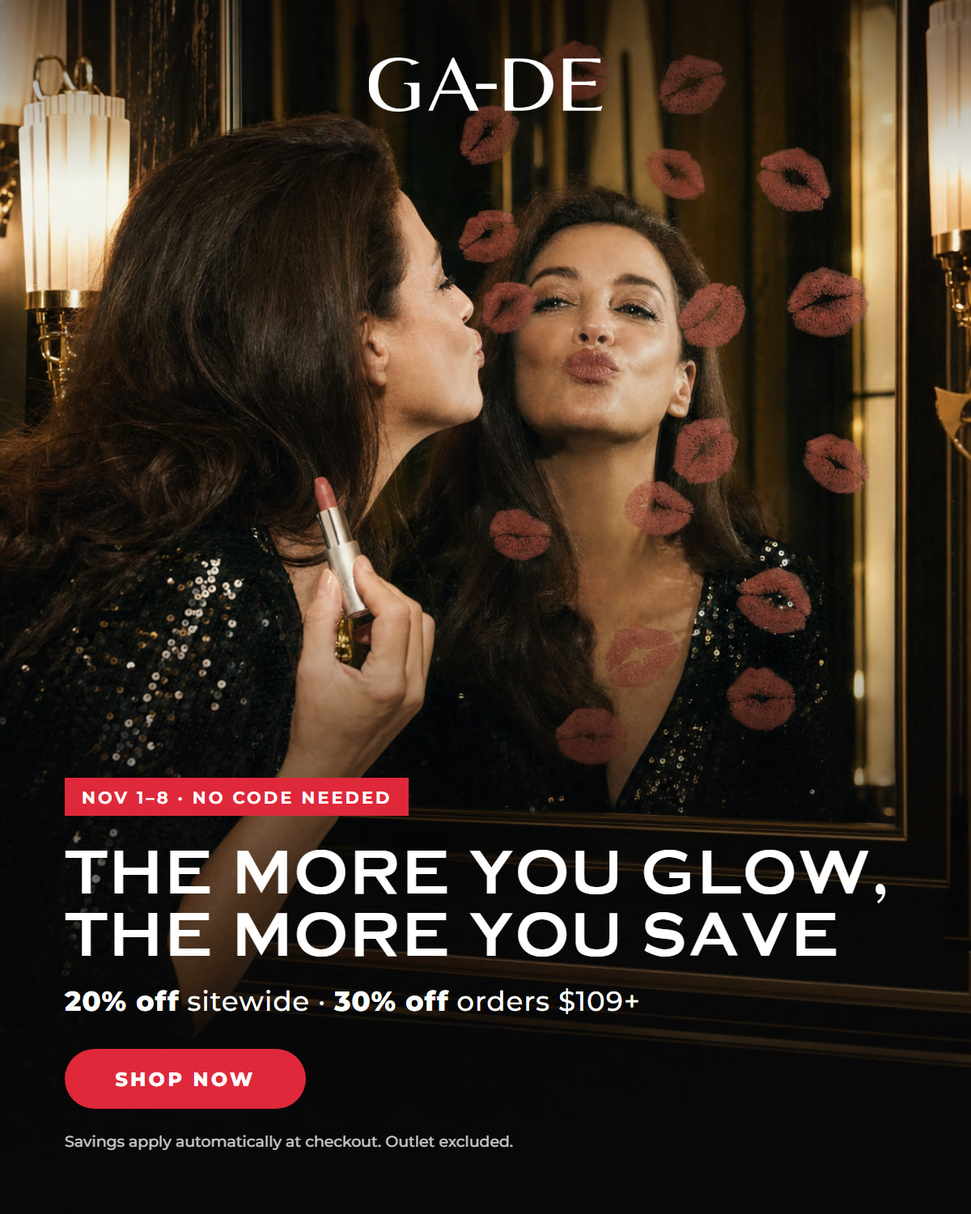
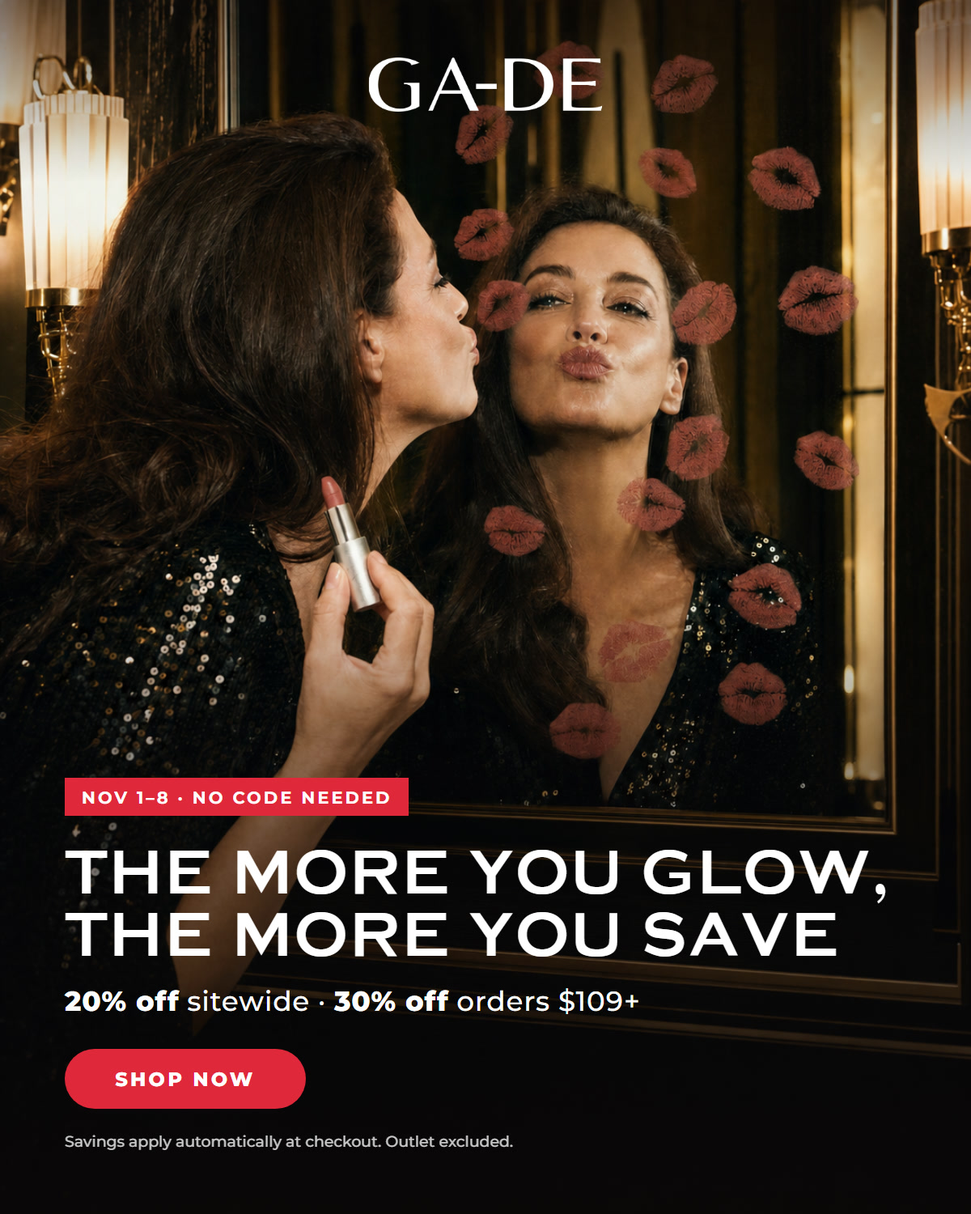
Round 5: hand re-check fixes (P feed, Y), 6 product-only still lifes ST1-ST6

diff --git a/index.html b/index.html
@@ -4,8 +4,8 @@
 <div class="box"><b>מה השתנה בסבב הזה:</b><br>
 • בכל העיצובים יש רק את 5 הכותרות שאושרו: The more you glow, the more you save · Go big, save bigger · Stock up, glow up · Fill the bag, save up to 30% · Treat yourself, save more.<br>
 • השפתון בכל הסצנות נבנה מצילום המוצר המקורי (SELFIE SOFT MATTE): גוף כסוף מוברש עם כיתוב Ga-de, שרוול כרום ופקק נפרד. הקצה המשופע פונה לשפה.<br>
-• בדקנו בכל הפורמטים את הידיים, האחיזה, גודל המוצרים ומספר הגוונים.<br>
+• בדקנו שוב, בתקריב, כל יד וכל אחיזה בכל הפורמטים, וגם את גודל המוצרים ומספר הגוונים (תוקנו P פיד ו-Y).<br>
 • שולבו דוגמניות צעירות יותר (T2, V2, OS, AAS), ושימוש טבעי במוצרים.<br>
-• נוספו 3 כיווני טיפוח עם מוצרים אמיתיים שנמצאים במלאי באתר.</div>
-<nav style="margin-top:12px"><a href="#P">P</a><a href="#Q">Q</a><a href="#R">R</a><a href="#AD">AD</a><a href="#T">T</a><a href="#T2">T2</a><a href="#V2">V2</a><a href="#BS">BS</a><a href="#OS">OS</a><a href="#AAS">AAS</a><a href="#Y">Y</a><a href="#Z">Z</a><a href="#AA">AA</a> · <a href="round1.html">הסבב הקודם (כל 33 הכיוונים)</a></nav>
-<h2 class="sec">כיוונים שאושרו · תוקנו לפי ההערות</h2><h3 id="P">P · מראה ארט-דקו · נשיקות</h3><p class="note">סטורי: השפתון הוחלף בשפתון SELFIE SOFT MATTE המדויק, בלי הפקק המחורץ שהיה מחובר לתחתית. כותרת: The more you glow, the more you save</p><div class="row"><figure><a href="img/r4/P_fe.jpg?r4" target="_blank"><img loading="lazy" src="img/r4/P_fe.jpg?r4"></a><figcaption>פיד 4:5</figcaption></figure><figure><a href="img/r4/P_st.jpg?r4" target="_blank"><img loading="lazy" src="img/r4/P_st.jpg?r4"></a><figcaption>סטורי 9:16</figcaption></figure><figure><a href="img/r4/P_em.jpg?r4" target="_blank"><img loading="lazy" src="img/r4/P_em.jpg?r4"></a><figcaption>קלאביו · באנר ראשי</figcaption></figure></div><h3 id="Q">Q · לימוזינה · שפתון + IDYLLIC</h3><p class="note">פיד וסטורי: השפתון הוחלף בשפתון המדויק, והקצה המשופע נוגע בשפה התחתונה. סטורי: יד שמאל צוירה מחדש (5 אצבעות, אחיזה טבעית בקומפקט בגודל כף יד)</p><div class="row"><figure><a href="img/r4/Q_fe.jpg?r4" target="_blank"><img loading="lazy" src="img/r4/Q_fe.jpg?r4"></a><figcaption>פיד 4:5</figcaption></figure><figure><a href="img/r4/Q_st.jpg?r4" target="_blank"><img loading="lazy" src="img/r4/Q_st.jpg?r4"></a><figcaption>סטורי 9:16</figcaption></figure><figure><a href="img/r4/Q_em.jpg?r4" target="_blank"><img loading="lazy" src="img/r4/Q_em.jpg?r4"></a><figcaption>קלאביו · באנר ראשי</figcaption></figure></div><h3 id="R">R · תקריב על רקע כתום</h3><p class="note">בכל הגרסאות: המוצר הוחלף בשפתון SELFIE SOFT MATTE המדויק (גוף כסוף מוברש, כיתוב Ga-de, שרוול כרום, פקק לא בתמונה). במקום לנשוך את השפתון, הדוגמנית מורחת אותו בכיוון הנכון</p><div class="row"><figure><a href="img/r4/R_fe.jpg?r4" target="_blank"><img loading="lazy" src="img/r4/R_fe.jpg?r4"></a><figcaption>פיד 4:5</figcaption></figure><figure><a href="img/r4/R_st.jpg?r4" target="_blank"><img loading="lazy" src="img/r4/R_st.jpg?r4"></a><figcaption>סטורי 9:16</figcaption></figure><figure><a href="img/r4/R_em.jpg?r4" target="_blank"><img loading="lazy" src="img/r4/R_em.jpg?r4"></a><figcaption>קלאביו · באנר ראשי</figcaption></figure></div><h3 id="AD">AD · נשיקה על הלחי</h3><p class="note">ממשיכים עם הכיוון כמו שהוא</p><div class="row"><figure><a href="img/r4/AD_fe.jpg?r4" target="_blank"><img loading="lazy" src="img/r4/AD_fe.jpg?r4"></a><figcaption>פיד 4:5</figcaption></figure><figure><a href="img/r4/AD_st.jpg?r4" target="_blank"><img loading="lazy" src="img/r4/AD_st.jpg?r4"></a><figcaption>סטורי 9:16</figcaption></figure><figure><a href="img/r4/AD_em.jpg?r4" target="_blank"><img loading="lazy" src="img/r4/AD_em.jpg?r4"></a><figcaption>קלאביו · באנר ראשי</figcaption></figure></div><h2 class="sec">כיוונים בכפוף להתאמות</h2><h3 id="T">T · ביקרית · המקורית</h3><p class="note">נשארת להשוואה. הכותרת הוחלפה לכותרת מהרשימה המאושרת</p><div class="row"><figure><a href="img/r4/T_fe.jpg?r4" target="_blank"><img loading="lazy" src="img/r4/T_fe.jpg?r4"></a><figcaption>פיד 4:5</figcaption></figure><figure><a href="img/r4/T_st.jpg?r4" target="_blank"><img loading="lazy" src="img/r4/T_st.jpg?r4"></a><figcaption>סטורי 9:16</figcaption></figure><figure><a href="img/r4/T_em.jpg?r4" target="_blank"><img loading="lazy" src="img/r4/T_em.jpg?r4"></a><figcaption>קלאביו · באנר ראשי</figcaption></figure></div><h3 id="T2">T2 · ביקרית · חלופה צעירה (~27)</h3><p class="note">אותה סצנה עם דוגמנית צעירה יותר, ושפתון מדויק שמונח בכיוון הנכון</p><div class="row"><figure><a href="img/r4/T2_fe.jpg?r4" target="_blank"><img loading="lazy" src="img/r4/T2_fe.jpg?r4"></a><figcaption>פיד 4:5</figcaption></figure><figure><a href="img/r4/T2_st.jpg?r4" target="_blank"><img loading="lazy" src="img/r4/T2_st.jpg?r4"></a><figcaption>סטורי 9:16</figcaption></figure><figure><a href="img/r4/T2_em.jpg?r4" target="_blank"><img loading="lazy" src="img/r4/T2_em.jpg?r4"></a><figcaption>קלאביו · באנר ראשי</figcaption></figure></div><h3 id="V2">V2 · עגלת קניות · פרופורציות מתוקנות + טיפוח</h3><p class="note">העגלה בגודל רגיל והמוצרים בגודלם האמיתי (שפתון באורך אצבע, קומפקט בגודל כף יד). נוספו מוצרי טיפוח: Gold Premium ו-Luminity. דוגמנית צעירה יותר</p><div class="row"><figure><a href="img/r4/V2_fe.jpg?r4" target="_blank"><img loading="lazy" src="img/r4/V2_fe.jpg?r4"></a><figcaption>פיד 4:5</figcaption></figure><figure><a href="img/r4/V2_st.jpg?r4" target="_blank"><img loading="lazy" src="img/r4/V2_st.jpg?r4"></a><figcaption>סטורי 9:16</figcaption></figure><figure><a href="img/r4/V2_em.jpg?r4" target="_blank"><img loading="lazy" src="img/r4/V2_em.jpg?r4"></a><figcaption>קלאביו · באנר ראשי</figcaption></figure></div><h2 class="sec">טיפוח · 3 כיוונים חדשים</h2><h3 id="BS">BS · B לטיפוח · סאטן שמפניה</h3><p class="note">Gold Premium Double Serum, קרם Gold Premium פתוח עם מרקם, סרום וקרם Luminity. כל המוצרים במלאי באתר</p><div class="row"><figure><a href="img/r4/BS_fe.jpg?r4" target="_blank"><img loading="lazy" src="img/r4/BS_fe.jpg?r4"></a><figcaption>פיד 4:5</figcaption></figure><figure><a href="img/r4/BS_st.jpg?r4" target="_blank"><img loading="lazy" src="img/r4/BS_st.jpg?r4"></a><figcaption>סטורי 9:16</figcaption></figure><figure><a href="img/r4/BS_em.jpg?r4" target="_blank"><img loading="lazy" src="img/r4/BS_em.jpg?r4"></a><figcaption>קלאביו · באנר ראשי</figcaption></figure></div><h3 id="OS">OS · O לטיפוח · רגע באמבטיה</h3><p class="note">דוגמנית בת ~30 עם כמעט בלי איפור מורחת ג׳ל-קרם Aqua Jolt על עצם הלחי. הצנצנת הפתוחה ביד, הסרום על המגש</p><div class="row"><figure><a href="img/r4/OS_fe.jpg?r4" target="_blank"><img loading="lazy" src="img/r4/OS_fe.jpg?r4"></a><figcaption>פיד 4:5</figcaption></figure><figure><a href="img/r4/OS_st.jpg?r4" target="_blank"><img loading="lazy" src="img/r4/OS_st.jpg?r4"></a><figcaption>סטורי 9:16</figcaption></figure><figure><a href="img/r4/OS_em.jpg?r4" target="_blank"><img loading="lazy" src="img/r4/OS_em.jpg?r4"></a><figcaption>קלאביו · באנר ראשי</figcaption></figure></div><h3 id="AAS">AAS · AA לטיפוח · תקריב חצי פנים</h3><p class="note">איפור מינימלי, עור טבעי עם ברק של סרום. ביד סרום Luminity</p><div class="row"><figure><a href="img/r4/AAS_fe.jpg?r4" target="_blank"><img loading="lazy" src="img/r4/AAS_fe.jpg?r4"></a><figcaption>פיד 4:5</figcaption></figure><figure><a href="img/r4/AAS_st.jpg?r4" target="_blank"><img loading="lazy" src="img/r4/AAS_st.jpg?r4"></a><figcaption>סטורי 9:16</figcaption></figure><figure><a href="img/r4/AAS_em.jpg?r4" target="_blank"><img loading="lazy" src="img/r4/AAS_em.jpg?r4"></a><figcaption>קלאביו · באנר ראשי</figcaption></figure></div><h2 class="sec">אפשרויות נוספות</h2><h3 id="Y">Y · אייליינר גרפי</h3><p class="note">ללא שינוי</p><div class="row"><figure><a href="img/r4/Y_fe.jpg?r4" target="_blank"><img loading="lazy" src="img/r4/Y_fe.jpg?r4"></a><figcaption>פיד 4:5</figcaption></figure><figure><a href="img/r4/Y_st.jpg?r4" target="_blank"><img loading="lazy" src="img/r4/Y_st.jpg?r4"></a><figcaption>סטורי 9:16</figcaption></figure><figure><a href="img/r4/Y_em.jpg?r4" target="_blank"><img loading="lazy" src="img/r4/Y_em.jpg?r4"></a><figcaption>קלאביו · באנר ראשי</figcaption></figure></div><h3 id="Z">Z · שיער כסוף · שפתון אדום</h3><p class="note">ללא שינוי</p><div class="row"><figure><a href="img/r4/Z_fe.jpg?r4" target="_blank"><img loading="lazy" src="img/r4/Z_fe.jpg?r4"></a><figcaption>פיד 4:5</figcaption></figure><figure><a href="img/r4/Z_st.jpg?r4" target="_blank"><img loading="lazy" src="img/r4/Z_st.jpg?r4"></a><figcaption>סטורי 9:16</figcaption></figure><figure><a href="img/r4/Z_em.jpg?r4" target="_blank"><img loading="lazy" src="img/r4/Z_em.jpg?r4"></a><figcaption>קלאביו · באנר ראשי</figcaption></figure></div><h3 id="AA">AA · Glow FX · הייליטר</h3><p class="note">האחיזה בקומפקט תוקנה: יד אחת עם 5 אצבעות. הכותרת הוחלפה לכותרת מהרשימה המאושרת</p><div class="row"><figure><a href="img/r4/AA_fe.jpg?r4" target="_blank"><img loading="lazy" src="img/r4/AA_fe.jpg?r4"></a><figcaption>פיד 4:5</figcaption></figure><figure><a href="img/r4/AA_st.jpg?r4" target="_blank"><img loading="lazy" src="img/r4/AA_st.jpg?r4"></a><figcaption>סטורי 9:16</figcaption></figure><figure><a href="img/r4/AA_em.jpg?r4" target="_blank"><img loading="lazy" src="img/r4/AA_em.jpg?r4"></a><figcaption>קלאביו · באנר ראשי</figcaption></figure></div></html>
+• נוספו 3 כיווני טיפוח ו-6 כיווני מוצרים בלבד (ST1–ST6), כולם עם מוצרים אמיתיים שנמצאים במלאי באתר.</div>
+<nav style="margin-top:12px"><a href="#P">P</a><a href="#Q">Q</a><a href="#R">R</a><a href="#AD">AD</a><a href="#T">T</a><a href="#T2">T2</a><a href="#V2">V2</a><a href="#BS">BS</a><a href="#OS">OS</a><a href="#AAS">AAS</a><a href="#ST1">ST1</a><a href="#ST2">ST2</a><a href="#ST3">ST3</a><a href="#ST4">ST4</a><a href="#ST5">ST5</a><a href="#ST6">ST6</a><a href="#Y">Y</a><a href="#Z">Z</a><a href="#AA">AA</a> · <a href="round1.html">הסבב הקודם (כל 33 הכיוונים)</a></nav>
+<h2 class="sec">כיוונים שאושרו · תוקנו לפי ההערות</h2><h3 id="P">P · מראה ארט-דקו · נשיקות</h3><p class="note">סטורי: השפתון הוחלף בשפתון SELFIE SOFT MATTE המדויק, בלי הפקק המחורץ שהיה מחובר לתחתית. פיד: הוסר חפץ זהב שבלט מתחת לשפתון ביד. כותרת: The more you glow, the more you save</p><div class="row"><figure><a href="img/r4/P_fe.jpg?r5" target="_blank"><img loading="lazy" src="img/r4/P_fe.jpg?r5"></a><figcaption>פיד 4:5</figcaption></figure><figure><a href="img/r4/P_st.jpg?r5" target="_blank"><img loading="lazy" src="img/r4/P_st.jpg?r5"></a><figcaption>סטורי 9:16</figcaption></figure><figure><a href="img/r4/P_em.jpg?r5" target="_blank"><img loading="lazy" src="img/r4/P_em.jpg?r5"></a><figcaption>קלאביו · באנר ראשי</figcaption></figure></div><h3 id="Q">Q · לימוזינה · שפתון + IDYLLIC</h3><p class="note">פיד וסטורי: השפתון הוחלף בשפתון המדויק, והקצה המשופע נוגע בשפה התחתונה. סטורי: יד שמאל צוירה מחדש (5 אצבעות, אחיזה טבעית בקומפקט בגודל כף יד)</p><div class="row"><figure><a href="img/r4/Q_fe.jpg?r5" target="_blank"><img loading="lazy" src="img/r4/Q_fe.jpg?r5"></a><figcaption>פיד 4:5</figcaption></figure><figure><a href="img/r4/Q_st.jpg?r5" target="_blank"><img loading="lazy" src="img/r4/Q_st.jpg?r5"></a><figcaption>סטורי 9:16</figcaption></figure><figure><a href="img/r4/Q_em.jpg?r5" target="_blank"><img loading="lazy" src="img/r4/Q_em.jpg?r5"></a><figcaption>קלאביו · באנר ראשי</figcaption></figure></div><h3 id="R">R · תקריב על רקע כתום</h3><p class="note">בכל הגרסאות: המוצר הוחלף בשפתון SELFIE SOFT MATTE המדויק (גוף כסוף מוברש, כיתוב Ga-de, שרוול כרום, פקק לא בתמונה). במקום לנשוך את השפתון, הדוגמנית מורחת אותו בכיוון הנכון</p><div class="row"><figure><a href="img/r4/R_fe.jpg?r5" target="_blank"><img loading="lazy" src="img/r4/R_fe.jpg?r5"></a><figcaption>פיד 4:5</figcaption></figure><figure><a href="img/r4/R_st.jpg?r5" target="_blank"><img loading="lazy" src="img/r4/R_st.jpg?r5"></a><figcaption>סטורי 9:16</figcaption></figure><figure><a href="img/r4/R_em.jpg?r5" target="_blank"><img loading="lazy" src="img/r4/R_em.jpg?r5"></a><figcaption>קלאביו · באנר ראשי</figcaption></figure></div><h3 id="AD">AD · נשיקה על הלחי</h3><p class="note">ממשיכים עם הכיוון כמו שהוא</p><div class="row"><figure><a href="img/r4/AD_fe.jpg?r5" target="_blank"><img loading="lazy" src="img/r4/AD_fe.jpg?r5"></a><figcaption>פיד 4:5</figcaption></figure><figure><a href="img/r4/AD_st.jpg?r5" target="_blank"><img loading="lazy" src="img/r4/AD_st.jpg?r5"></a><figcaption>סטורי 9:16</figcaption></figure><figure><a href="img/r4/AD_em.jpg?r5" target="_blank"><img loading="lazy" src="img/r4/AD_em.jpg?r5"></a><figcaption>קלאביו · באנר ראשי</figcaption></figure></div><h2 class="sec">כיוונים בכפוף להתאמות</h2><h3 id="T">T · ביקרית · המקורית</h3><p class="note">נשארת להשוואה. הכותרת הוחלפה לכותרת מהרשימה המאושרת</p><div class="row"><figure><a href="img/r4/T_fe.jpg?r5" target="_blank"><img loading="lazy" src="img/r4/T_fe.jpg?r5"></a><figcaption>פיד 4:5</figcaption></figure><figure><a href="img/r4/T_st.jpg?r5" target="_blank"><img loading="lazy" src="img/r4/T_st.jpg?r5"></a><figcaption>סטורי 9:16</figcaption></figure><figure><a href="img/r4/T_em.jpg?r5" target="_blank"><img loading="lazy" src="img/r4/T_em.jpg?r5"></a><figcaption>קלאביו · באנר ראשי</figcaption></figure></div><h3 id="T2">T2 · ביקרית · חלופה צעירה (~27)</h3><p class="note">אותה סצנה עם דוגמנית צעירה יותר, ושפתון מדויק שמונח בכיוון הנכון</p><div class="row"><figure><a href="img/r4/T2_fe.jpg?r5" target="_blank"><img loading="lazy" src="img/r4/T2_fe.jpg?r5"></a><figcaption>פיד 4:5</figcaption></figure><figure><a href="img/r4/T2_st.jpg?r5" target="_blank"><img loading="lazy" src="img/r4/T2_st.jpg?r5"></a><figcaption>סטורי 9:16</figcaption></figure><figure><a href="img/r4/T2_em.jpg?r5" target="_blank"><img loading="lazy" src="img/r4/T2_em.jpg?r5"></a><figcaption>קלאביו · באנר ראשי</figcaption></figure></div><h3 id="V2">V2 · עגלת קניות · פרופורציות מתוקנות + טיפוח</h3><p class="note">העגלה בגודל רגיל והמוצרים בגודלם האמיתי (שפתון באורך אצבע, קומפקט בגודל כף יד). נוספו מוצרי טיפוח: Gold Premium ו-Luminity. דוגמנית צעירה יותר</p><div class="row"><figure><a href="img/r4/V2_fe.jpg?r5" target="_blank"><img loading="lazy" src="img/r4/V2_fe.jpg?r5"></a><figcaption>פיד 4:5</figcaption></figure><figure><a href="img/r4/V2_st.jpg?r5" target="_blank"><img loading="lazy" src="img/r4/V2_st.jpg?r5"></a><figcaption>סטורי 9:16</figcaption></figure><figure><a href="img/r4/V2_em.jpg?r5" target="_blank"><img loading="lazy" src="img/r4/V2_em.jpg?r5"></a><figcaption>קלאביו · באנר ראשי</figcaption></figure></div><h2 class="sec">טיפוח · 3 כיוונים חדשים</h2><h3 id="BS">BS · B לטיפוח · סאטן שמפניה</h3><p class="note">Gold Premium Double Serum, קרם Gold Premium פתוח עם מרקם, סרום וקרם Luminity. כל המוצרים במלאי באתר</p><div class="row"><figure><a href="img/r4/BS_fe.jpg?r5" target="_blank"><img loading="lazy" src="img/r4/BS_fe.jpg?r5"></a><figcaption>פיד 4:5</figcaption></figure><figure><a href="img/r4/BS_st.jpg?r5" target="_blank"><img loading="lazy" src="img/r4/BS_st.jpg?r5"></a><figcaption>סטורי 9:16</figcaption></figure><figure><a href="img/r4/BS_em.jpg?r5" target="_blank"><img loading="lazy" src="img/r4/BS_em.jpg?r5"></a><figcaption>קלאביו · באנר ראשי</figcaption></figure></div><h3 id="OS">OS · O לטיפוח · רגע באמבטיה</h3><p class="note">דוגמנית בת ~30 עם כמעט בלי איפור מורחת ג׳ל-קרם Aqua Jolt על עצם הלחי. הצנצנת הפתוחה ביד, הסרום על המגש</p><div class="row"><figure><a href="img/r4/OS_fe.jpg?r5" target="_blank"><img loading="lazy" src="img/r4/OS_fe.jpg?r5"></a><figcaption>פיד 4:5</figcaption></figure><figure><a href="img/r4/OS_st.jpg?r5" target="_blank"><img loading="lazy" src="img/r4/OS_st.jpg?r5"></a><figcaption>סטורי 9:16</figcaption></figure><figure><a href="img/r4/OS_em.jpg?r5" target="_blank"><img loading="lazy" src="img/r4/OS_em.jpg?r5"></a><figcaption>קלאביו · באנר ראשי</figcaption></figure></div><h3 id="AAS">AAS · AA לטיפוח · תקריב חצי פנים</h3><p class="note">איפור מינימלי, עור טבעי עם ברק של סרום. ביד סרום Luminity</p><div class="row"><figure><a href="img/r4/AAS_fe.jpg?r5" target="_blank"><img loading="lazy" src="img/r4/AAS_fe.jpg?r5"></a><figcaption>פיד 4:5</figcaption></figure><figure><a href="img/r4/AAS_st.jpg?r5" target="_blank"><img loading="lazy" src="img/r4/AAS_st.jpg?r5"></a><figcaption>סטורי 9:16</figcaption></figure><figure><a href="img/r4/AAS_em.jpg?r5" target="_blank"><img loading="lazy" src="img/r4/AAS_em.jpg?r5"></a><figcaption>קלאביו · באנר ראשי</figcaption></figure></div><h2 class="sec">מוצרים בלבד · 6 כיוונים חדשים בסגנון הסאטן שמפניה</h2><h3 id="ST1">ST1 · שיש לבן ומגש פליז · טיפוח</h3><p class="note">Gold Premium Double Serum, קרם Gold Premium פתוח, סרום Luminity. אור בוקר</p><div class="row"><figure><a href="img/r4/ST1_fe.jpg?r5" target="_blank"><img loading="lazy" src="img/r4/ST1_fe.jpg?r5"></a><figcaption>פיד 4:5</figcaption></figure><figure><a href="img/r4/ST1_st.jpg?r5" target="_blank"><img loading="lazy" src="img/r4/ST1_st.jpg?r5"></a><figcaption>סטורי 9:16</figcaption></figure><figure><a href="img/r4/ST1_em.jpg?r5" target="_blank"><img loading="lazy" src="img/r4/ST1_em.jpg?r5"></a><figcaption>קלאביו · באנר ראשי</figcaption></figure></div><h3 id="ST2">ST2 · פלאט-ליי מלמעלה על סאטן · איפור + טיפוח</h3><p class="note">בדיוק 7 מוצרים: 2 שפתוני SELFIE (אחד פתוח ופקק לידו), Glow FX, IDYLLIC, קרם Gold Premium, סרום Luminity, Aqua Jolt</p><div class="row"><figure><a href="img/r4/ST2_fe.jpg?r5" target="_blank"><img loading="lazy" src="img/r4/ST2_fe.jpg?r5"></a><figcaption>פיד 4:5</figcaption></figure><figure><a href="img/r4/ST2_st.jpg?r5" target="_blank"><img loading="lazy" src="img/r4/ST2_st.jpg?r5"></a><figcaption>סטורי 9:16</figcaption></figure><figure><a href="img/r4/ST2_em.jpg?r5" target="_blank"><img loading="lazy" src="img/r4/ST2_em.jpg?r5"></a><figcaption>קלאביו · באנר ראשי</figcaption></figure></div><h3 id="ST3">ST3 · 5 גוונים של SELFIE SOFT MATTE על מראה</h3><p class="note">בדיוק 5 שפתונים ו-2 פקקים. כל גוון הועתק מצילום מוצר אמיתי</p><div class="row"><figure><a href="img/r4/ST3_fe.jpg?r5" target="_blank"><img loading="lazy" src="img/r4/ST3_fe.jpg?r5"></a><figcaption>פיד 4:5</figcaption></figure><figure><a href="img/r4/ST3_st.jpg?r5" target="_blank"><img loading="lazy" src="img/r4/ST3_st.jpg?r5"></a><figcaption>סטורי 9:16</figcaption></figure><figure><a href="img/r4/ST3_em.jpg?r5" target="_blank"><img loading="lazy" src="img/r4/ST3_em.jpg?r5"></a><figcaption>קלאביו · באנר ראשי</figcaption></figure></div><h3 id="ST4">ST4 · במות טרוורטין וצל עלי דקל · איפור + טיפוח</h3><p class="note">בדיוק 4 מוצרים: Gold Premium Serum, Glow FX פתוח, שפתון SELFIE, קרם Luminity</p><div class="row"><figure><a href="img/r4/ST4_fe.jpg?r5" target="_blank"><img loading="lazy" src="img/r4/ST4_fe.jpg?r5"></a><figcaption>פיד 4:5</figcaption></figure><figure><a href="img/r4/ST4_st.jpg?r5" target="_blank"><img loading="lazy" src="img/r4/ST4_st.jpg?r5"></a><figcaption>סטורי 9:16</figcaption></figure><figure><a href="img/r4/ST4_em.jpg?r5" target="_blank"><img loading="lazy" src="img/r4/ST4_em.jpg?r5"></a><figcaption>קלאביו · באנר ראשי</figcaption></figure></div><h3 id="ST5">ST5 · Aqua Jolt במים · טיפוח</h3><p class="note">סרום וג׳ל-קרם Aqua Jolt באדוות מים ואור</p><div class="row"><figure><a href="img/r4/ST5_fe.jpg?r5" target="_blank"><img loading="lazy" src="img/r4/ST5_fe.jpg?r5"></a><figcaption>פיד 4:5</figcaption></figure><figure><a href="img/r4/ST5_st.jpg?r5" target="_blank"><img loading="lazy" src="img/r4/ST5_st.jpg?r5"></a><figcaption>סטורי 9:16</figcaption></figure><figure><a href="img/r4/ST5_em.jpg?r5" target="_blank"><img loading="lazy" src="img/r4/ST5_em.jpg?r5"></a><figcaption>קלאביו · באנר ראשי</figcaption></figure></div><h3 id="ST6">ST6 · סאטן בורדו, פנינים ושמפניה · איפור</h3><p class="note">שני שפתוני SELFIE (פתוח וסגור), Glow FX ו-IDYLLIC פתוחים</p><div class="row"><figure><a href="img/r4/ST6_fe.jpg?r5" target="_blank"><img loading="lazy" src="img/r4/ST6_fe.jpg?r5"></a><figcaption>פיד 4:5</figcaption></figure><figure><a href="img/r4/ST6_st.jpg?r5" target="_blank"><img loading="lazy" src="img/r4/ST6_st.jpg?r5"></a><figcaption>סטורי 9:16</figcaption></figure><figure><a href="img/r4/ST6_em.jpg?r5" target="_blank"><img loading="lazy" src="img/r4/ST6_em.jpg?r5"></a><figcaption>קלאביו · באנר ראשי</figcaption></figure></div><h2 class="sec">אפשרויות נוספות</h2><h3 id="Y">Y · אייליינר גרפי</h3><p class="note">האייליינר תוקן: שפופרת אחת סגורה ומדויקת. קודם הופיע מכחול נפרד שצף לידה</p><div class="row"><figure><a href="img/r4/Y_fe.jpg?r5" target="_blank"><img loading="lazy" src="img/r4/Y_fe.jpg?r5"></a><figcaption>פיד 4:5</figcaption></figure><figure><a href="img/r4/Y_st.jpg?r5" target="_blank"><img loading="lazy" src="img/r4/Y_st.jpg?r5"></a><figcaption>סטורי 9:16</figcaption></figure><figure><a href="img/r4/Y_em.jpg?r5" target="_blank"><img loading="lazy" src="img/r4/Y_em.jpg?r5"></a><figcaption>קלאביו · באנר ראשי</figcaption></figure></div><h3 id="Z">Z · שיער כסוף · שפתון אדום</h3><p class="note">ללא שינוי</p><div class="row"><figure><a href="img/r4/Z_fe.jpg?r5" target="_blank"><img loading="lazy" src="img/r4/Z_fe.jpg?r5"></a><figcaption>פיד 4:5</figcaption></figure><figure><a href="img/r4/Z_st.jpg?r5" target="_blank"><img loading="lazy" src="img/r4/Z_st.jpg?r5"></a><figcaption>סטורי 9:16</figcaption></figure><figure><a href="img/r4/Z_em.jpg?r5" target="_blank"><img loading="lazy" src="img/r4/Z_em.jpg?r5"></a><figcaption>קלאביו · באנר ראשי</figcaption></figure></div><h3 id="AA">AA · Glow FX · הייליטר</h3><p class="note">האחיזה בקומפקט תוקנה: יד אחת עם 5 אצבעות. הכותרת הוחלפה לכותרת מהרשימה המאושרת</p><div class="row"><figure><a href="img/r4/AA_fe.jpg?r5" target="_blank"><img loading="lazy" src="img/r4/AA_fe.jpg?r5"></a><figcaption>פיד 4:5</figcaption></figure><figure><a href="img/r4/AA_st.jpg?r5" target="_blank"><img loading="lazy" src="img/r4/AA_st.jpg?r5"></a><figcaption>סטורי 9:16</figcaption></figure><figure><a href="img/r4/AA_em.jpg?r5" target="_blank"><img loading="lazy" src="img/r4/AA_em.jpg?r5"></a><figcaption>קלאביו · באנר ראשי</figcaption></figure></div></html>
